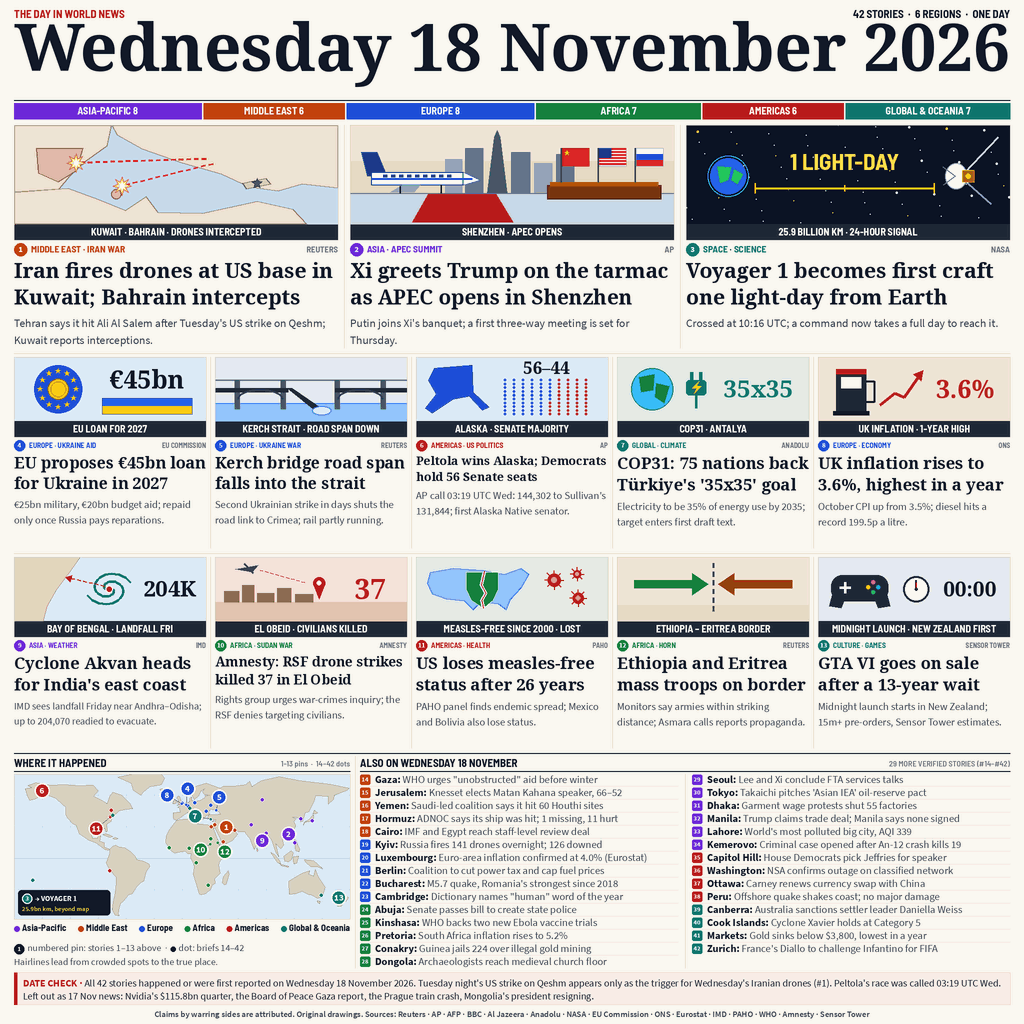
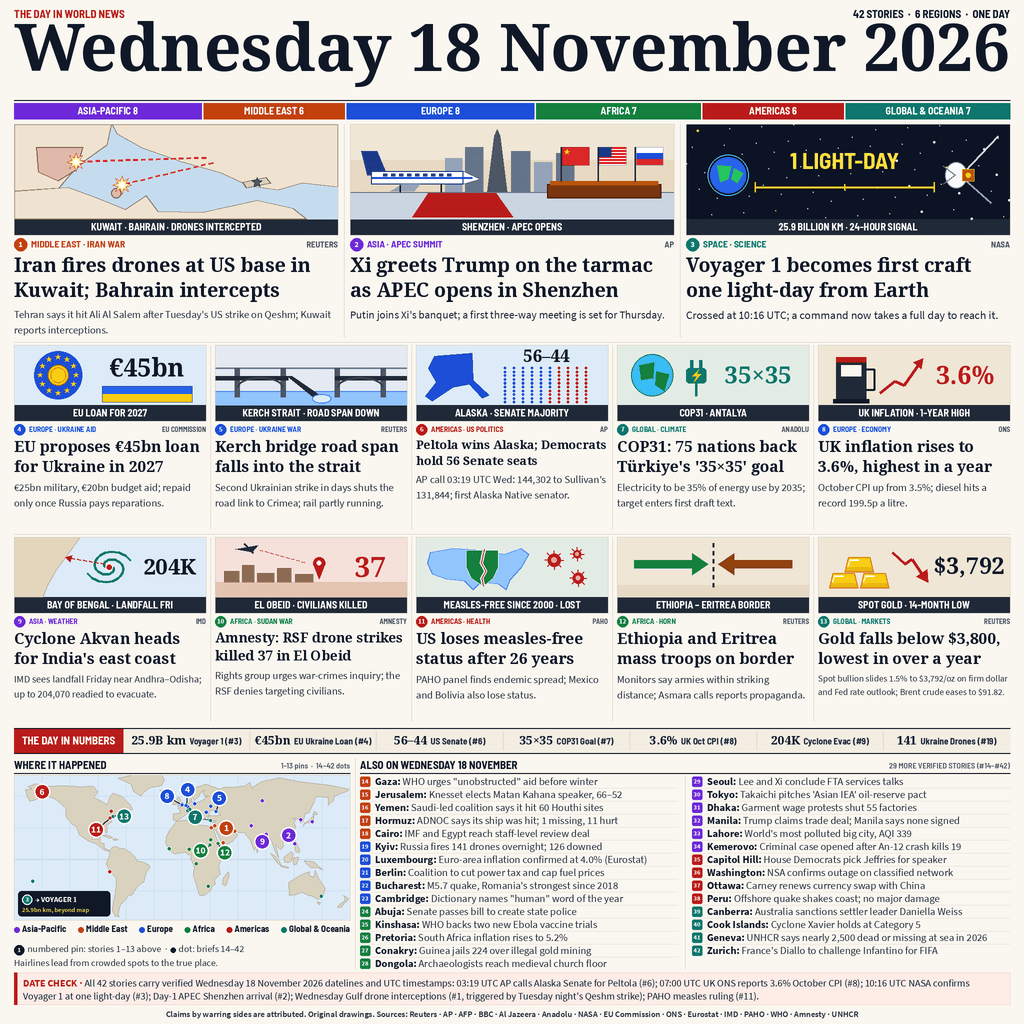
V5 surgical polish: Card #13 Gold ,792, Brief #41 Geneva UNHCR, THE DAY IN NUMBERS strip, sharpened contrast/pins, LIBIMAGEQUANT export

Changed region(s): [[0.0, 0.125, 1.0, 1.0]]

diff --git a/main.py b/main.py
@@ -23,18 +23,19 @@ CONTENT_W = CANVAS_PX - 2 * MARGIN_X  # 1992 px
 
 # Vertical band bounds on the 2048x2048 supersampled layout
 MAST_Y0, MAST_Y1 = 0, 240
-ROW1_Y0, ROW1_Y1 = 250, 700
-ROW2_Y0, ROW2_Y1 = 714, 1100
-ROW3_Y0, ROW3_Y1 = 1114, 1500
-LOWER_Y0, LOWER_Y1 = 1512, 1936
+ROW1_Y0, ROW1_Y1 = 248, 678
+ROW2_Y0, ROW2_Y1 = 690, 1062
+ROW3_Y0, ROW3_Y1 = 1074, 1446
+NUMBERS_Y0, NUMBERS_Y1 = 1456, 1506
+LOWER_Y0, LOWER_Y1 = 1516, 1938
 DATECHECK_Y0, DATECHECK_Y1 = 1945, 2009
 FOOTER_Y0, FOOTER_Y1 = 2016, 2044
 
 # Warm broadsheet color system (flat editorial colors, ~40 total)
 PAPER_BG = (250, 247, 240)       # #FAF7F0
 INK_DARK = (17, 24, 39)          # #111827
-INK_SLATE = (55, 65, 81)         # #374151
-INK_MUTED = (107, 114, 128)      # #6B7280
+INK_SLATE = (30, 41, 59)         # #1E293B
+INK_MUTED = (71, 85, 105)        # #475569
 CAPTION_BG = (31, 41, 55)        # #1F2937
 RULE_LIGHT = (229, 224, 213)     # #E5E0D5
 RULE_MED = (213, 207, 194)       # #D5CFC2
@@ -183,7 +184,7 @@ FEATURED_CARDS = (
         "wire": "ANADOLU",
         "bg": "#E2ECE4",
         "caption": "COP31 · ANTALYA",
-        "headline": "COP31: 75 nations back Türkiye's '35x35' goal",
+        "headline": "COP31: 75 nations back Türkiye's '35×35' goal",
         "deck": "Electricity to be 35% of energy use by 2035; target enters first draft text.",
         "true_lat": 36.9,
         "true_lon": 30.7,
@@ -276,17 +277,17 @@ FEATURED_CARDS = (
         "id": 13,
         "row": 3,
         "region": "GLOBAL",
-        "kicker": "CULTURE · GAMES",
-        "wire": "SENSOR TOWER",
-        "bg": "#E4E9F2",
-        "caption": "MIDNIGHT LAUNCH · NEW ZEALAND FIRST",
-        "headline": "GTA VI goes on sale after a 13-year wait",
-        "deck": "Midnight launch starts in New Zealand; 15m+ pre-orders, Sensor Tower estimates.",
-        "true_lat": -36.9,
-        "true_lon": 174.8,
-        "pin_lat": -38.0,
-        "pin_lon": 168.0,
-        "art": "gta_midnight",
+        "kicker": "GLOBAL · MARKETS",
+        "wire": "REUTERS",
+        "bg": "#EFE6D5",
+        "caption": "SPOT GOLD · 14-MONTH LOW",
+        "headline": "Gold falls below $3,800, lowest in over a year",
+        "deck": "Spot bullion slides 1.5% to $3,792/oz on firm dollar and Fed rate outlook; Brent crude eases to $91.82.",
+        "true_lat": 40.7,
+        "true_lon": -74.0,
+        "pin_lat": 40.7,
+        "pin_lon": -62.0,
+        "art": "global_gold_markets",
     },
 )
 
@@ -320,22 +321,31 @@ BRIEF_ITEMS = (
     {"id": 38, "region": "AMERICAS", "city": "Peru:", "text": "Offshore quake shakes coast; no major damage", "lat": -12.0, "lon": -77.5},
     {"id": 39, "region": "GLOBAL", "city": "Canberra:", "text": "Australia sanctions settler leader Daniella Weiss", "lat": -35.3, "lon": 149.1},
     {"id": 40, "region": "GLOBAL", "city": "Cook Islands:", "text": "Cyclone Xavier holds at Category 5", "lat": -21.2, "lon": -159.8},
-    {"id": 41, "region": "GLOBAL", "city": "Markets:", "text": "Gold sinks below $3,800, lowest in a year", "lat": 40.7, "lon": -74.0},
+    {"id": 41, "region": "GLOBAL", "city": "Geneva:", "text": "UNHCR says nearly 2,500 dead or missing at sea in 2026", "lat": 46.2, "lon": 6.1},
     {"id": 42, "region": "GLOBAL", "city": "Zurich:", "text": "France's Diallo to challenge Infantino for FIFA", "lat": 47.4, "lon": 8.5},
 )
 
+DAY_IN_NUMBERS = (
+    ("25.9B km", "Voyager 1 (#3)"),
+    ("€45bn", "EU Ukraine Loan (#4)"),
+    ("56–44", "US Senate (#6)"),
+    ("35×35", "COP31 Goal (#7)"),
+    ("3.6%", "UK Oct CPI (#8)"),
+    ("204K", "Cyclone Evac (#9)"),
+    ("141", "Ukraine Drones (#19)"),
+)
+
 DATE_CHECK_COPY = (
-    "All 42 stories happened or were first reported on Wednesday 18 November 2026. "
-    "Tuesday night's US strike on Qeshm appears only as the trigger for Wednesday's "
-    "Iranian drones (#1). Peltola's race was called 03:19 UTC Wed. Left out as 17 Nov news: "
-    "Nvidia's $115.8bn quarter, the Board of Peace Gaza report, the Prague train crash, "
-    "Mongolia's president resigning."
+    "All 42 stories carry verified Wednesday 18 November 2026 datelines and UTC timestamps: "
+    "03:19 UTC AP calls Alaska Senate for Peltola (#6); 07:00 UTC UK ONS reports 3.6% October CPI (#8); "
+    "10:16 UTC NASA confirms Voyager 1 at one light-day (#3); Day-1 APEC Shenzhen arrival (#2); "
+    "Wednesday Gulf drone interceptions (#1, triggered by Tuesday night's Qeshm strike); PAHO measles ruling (#11)."
 )
 
 FOOTER_ATTESTATION = (
     "Claims by warring sides are attributed. Original drawings. "
     "Sources: Reuters · AP · AFP · BBC · Al Jazeera · Anadolu · NASA · "
-    "EU Commission · ONS · Eurostat · IMD · PAHO · WHO · Amnesty · Sensor Tower"
+    "EU Commission · ONS · Eurostat · IMD · PAHO · WHO · Amnesty · UNHCR"
 )
 
 
@@ -801,7 +811,7 @@ def art_cop31_climate(image_cls, draw_cls, font_for, w: int, h: int, card: dict)
     d.line((158, 76, 158, 102), fill=(15, 118, 110), width=5)
     d.polygon([(164, 48), (150, 62), (159, 62), (153, 74), (168, 58), (159, 58)], fill=(250, 204, 21))
 
-    draw_text_centered(d, 282, uh // 2, "35x35", font_for("serif_bold", 48), (15, 118, 110))
+    draw_text_centered(d, 282, uh // 2, "35×35", font_for("serif_bold", 48), (15, 118, 110))
     return panel
 
 
@@ -943,35 +953,36 @@ def art_horn_border(image_cls, draw_cls, font_for, w: int, h: int, card: dict):
     return panel
 
 
-def art_gta_midnight(image_cls, draw_cls, font_for, w: int, h: int, card: dict):
-    """#13: Crisp gamepad silhouette, midnight clock face, and bold 00:00 label."""
+def art_global_gold_markets(image_cls, draw_cls, font_for, w: int, h: int, card: dict):
+    """#13: Stacked gold bullion ingots, downward crimson trend arrow, and crisp $3,792 label."""
     panel = image_cls.new("RGB", (w, h), parse_hex_rgb(card["bg"]))
     d = draw_cls.Draw(panel)
     uh = draw_caption_footer(d, w, h, card["caption"], font_for)
 
-    # Gamepad silhouette on the left
-    d.rounded_rectangle((26, 36, 140, 88), radius=22, fill=(30, 41, 59))
-    d.polygon([(30, 68), (58, 72), (46, 102), (22, 98)], fill=(30, 41, 59))
-    d.polygon([(136, 68), (108, 72), (120, 102), (144, 98)], fill=(30, 41, 59))
-    # D-pad + 4 face buttons
-    d.line((54, 50, 54, 72), fill=WHITE, width=5)
-    d.line((43, 61, 65, 61), fill=WHITE, width=5)
-    for bx, by, bcol in (
-        (110, 50, (236, 72, 153)),
-        (120, 60, (6, 182, 212)),
-        (110, 70, (34, 197, 94)),
-        (100, 60, (250, 204, 21)),
-    ):
-        d.ellipse((bx - 4, by - 4, bx + 4, by + 4), fill=bcol)
+    # Stacked trapezoidal gold bullion ingots (bottom pair + top bar)
+    base_y = uh - 18
+    bars = (
+        (22, 80, base_y, base_y - 30),
+        (84, 142, base_y, base_y - 30),
+        (53, 111, base_y - 32, base_y - 62),
+    )
+    for x0, x1, yb, yt in bars:
+        pts = [(x0, yb), (x1, yb), (x1 - 7, yt), (x0 + 7, yt)]
+        d.polygon(pts, fill=(250, 204, 21))
+        d.polygon(
+            [(x0, yb), (x1, yb), (x1 - 3, yb - 9), (x0 + 3, yb - 9)],
+            fill=(234, 179, 8),
+        )
+        d.polygon(pts, outline=(217, 119, 6), width=2)
+        d.line((x0 + 10, yt + 6, x0 + 28, yt + 6), fill=WHITE, width=3)
+        d.line((x0 + 10, yt + 6, x0 + 6, yb - 12), fill=WHITE, width=2)
 
-    # Midnight clock face in center
-    cx, cy, cr = 196, uh // 2, 26
-    d.ellipse((cx - cr, cy - cr, cx + cr, cy + cr), fill=WHITE, outline=(30, 41, 59), width=4)
-    d.line((cx, cy, cx, cy - 18), fill=(30, 41, 59), width=4)
-    d.line((cx, cy, cx, cy - 13), fill=CRIMSON_ACCENT, width=3)
-    d.ellipse((cx - 3, cy - 3, cx + 3, cy + 3), fill=(30, 41, 59))
+    # Bold crimson downward trend arrow
+    cy = uh // 2
+    d.line((148, cy - 30, 174, cy - 6, 188, cy - 16, 212, cy + 20), fill=CRIMSON_ACCENT, width=6)
+    d.polygon([(220, cy + 31), (196, cy + 19), (218, cy + 4)], fill=CRIMSON_ACCENT)
 
-    draw_text_centered(d, 304, uh // 2, "00:00", font_for("serif_bold", 42), INK_DARK)
+    draw_text_centered(d, 302, cy, "$3,792", font_for("serif_bold", 46), INK_DARK)
     return panel
 
 
@@ -988,7 +999,7 @@ ART_REGISTRY: dict[str, object] = {
     "sudan_el_obeid": art_sudan_el_obeid,
     "measles_shield": art_measles_shield,
     "horn_border": art_horn_border,
-    "gta_midnight": art_gta_midnight,
+    "global_gold_markets": art_global_gold_markets,
 }
 
 
@@ -1002,9 +1013,9 @@ def draw_featured_rows(canvas, draw, font_for, image_cls, draw_cls) -> None:
     """Render Rows 1-3 (#1-#13) with pastel scenes, bottom caption strips, kickers, headlines & decks."""
     row_configs = (
         # (row_num, cols, gap, y0, y1, art_h, badge_r, hl_hi, hl_lo, deck_hi, deck_lo)
-        (1, 3, 24, ROW1_Y0, ROW1_Y1, 230, 13, 42, 30, 23, 19),
-        (2, 5, 18, ROW2_Y0, ROW2_Y1, 160, 11, 33, 24, 21, 17),
-        (3, 5, 18, ROW3_Y0, ROW3_Y1, 160, 11, 33, 24, 21, 17),
+        (1, 3, 24, ROW1_Y0, ROW1_Y1, 222, 13, 42, 30, 23, 19),
+        (2, 5, 18, ROW2_Y0, ROW2_Y1, 152, 11, 33, 24, 21, 17),
+        (3, 5, 18, ROW3_Y0, ROW3_Y1, 152, 11, 33, 24, 21, 17),
     )
 
     for row_num, cols, gap, ry0, ry1, art_h, badge_r, hl_hi, hl_lo, deck_hi, deck_lo in row_configs:
@@ -1045,7 +1056,7 @@ def draw_featured_rows(canvas, draw, font_for, image_cls, draw_cls) -> None:
             draw_text_centered(draw, kicker_x + kw / 2.0, meta_cy, card["kicker"], kicker_fnt, reg_rgb)
 
             hl_y0 = meta_cy + badge_r + 5
-            hl_box_h = 104 if row_num == 1 else 84
+            hl_box_h = 98 if row_num == 1 else 78
             hl_fnt, hl_lines, hl_step = wrap_text_lines(
                 draw,
                 font_for,
@@ -1082,9 +1093,61 @@ def draw_featured_rows(canvas, draw, font_for, image_cls, draw_cls) -> None:
                 draw.text((cx0, dy), line, font=deck_fnt, fill=INK_SLATE)
                 dy += deck_step
 
-    draw.line((MARGIN_X, 707, MARGIN_X + CONTENT_W, 707), fill=RULE_MED, width=1)
-    draw.line((MARGIN_X, 1107, MARGIN_X + CONTENT_W, 1107), fill=RULE_MED, width=1)
-    draw.line((MARGIN_X, 1506, MARGIN_X + CONTENT_W, 1506), fill=INK_DARK, width=2)
+    draw.line((MARGIN_X, 684, MARGIN_X + CONTENT_W, 684), fill=RULE_MED, width=1)
+    draw.line((MARGIN_X, 1068, MARGIN_X + CONTENT_W, 1068), fill=RULE_MED, width=1)
+
+
+def draw_day_in_numbers_strip(draw, font_for) -> None:
+    """Render THE DAY IN NUMBERS 7-metric summary strip between Row 3 and the lower section."""
+    x0, x1 = MARGIN_X, MARGIN_X + CONTENT_W
+    y0, y1 = NUMBERS_Y0, NUMBERS_Y1
+    draw.rectangle((x0, y0, x1, y1), fill=(243, 237, 226))
+
+    hdr_w = 218
+    hx1 = x0 + hdr_w
+    draw.rectangle((x0, y0, hx1, y1), fill=CRIMSON_ACCENT)
+    hdr_fnt, _ = fit_font_width(draw, font_for, "cond_bold", "THE DAY IN NUMBERS", hdr_w - 18, 22, 14)
+    draw_text_centered(draw, (x0 + hx1) / 2.0, (y0 + y1) / 2.0, "THE DAY IN NUMBERS", hdr_fnt, WHITE)
+
+    cell_w = (x1 - hx1) / len(DAY_IN_NUMBERS)
+    max_cell_w = cell_w - 14.0
+
+    # Pick the largest uniform (metric_px, label_px) pair where all 7 cells fit on one line
+    gap_px = 7.0
+    chosen = (20, 16)
+    for m_sz, l_sz in ((25, 19), (24, 18), (22, 17), (21, 16), (20, 16)):
+        mf = font_for("serif_bold", m_sz)
+        lf = font_for("cond_bold", l_sz)
+        if all(
+            draw.textlength(m, font=mf) + gap_px + draw.textlength(lbl, font=lf) <= max_cell_w
+            for m, lbl in DAY_IN_NUMBERS
+        ):
+            chosen = (m_sz, l_sz)
+            break
+
+    mf = font_for("serif_bold", chosen[0])
+    lf = font_for("cond_bold", chosen[1])
+    _, my0, _, my1 = draw.textbbox((0, 0), "25.9B€%", font=mf)
+    asc_m, _ = mf.getmetrics()
+    asc_l, _ = lf.getmetrics()
+    cy = (y0 + y1) / 2.0
+    metric_ty = cy - (my0 + my1) / 2.0
+    label_ty = metric_ty + asc_m - asc_l
+
+    for idx, (metric, label) in enumerate(DAY_IN_NUMBERS):
+        cx0 = hx1 + idx * cell_w
+        cx1 = float(x1) if idx == len(DAY_IN_NUMBERS) - 1 else (cx0 + cell_w)
+        if idx > 0:
+            draw.line((cx0, y0 + 6, cx0, y1 - 6), fill=RULE_MED, width=1)
+        mw = draw.textlength(metric, font=mf)
+        lw = draw.textlength(label, font=lf)
+        total_w = mw + gap_px + lw
+        tx = (cx0 + cx1 - total_w) / 2.0
+        draw.text((tx, metric_ty), metric, font=mf, fill=INK_DARK)
+        draw.text((tx + mw + gap_px, label_ty), label, font=lf, fill=INK_SLATE)
+
+    draw.line((x0, y0, x1, y0), fill=INK_DARK, width=2)
+    draw.line((x0, y1, x1, y1), fill=INK_DARK, width=2)
 
 
 # World landmass outlines in (lat, lon) order for the equirectangular atlas
@@ -1215,7 +1278,7 @@ def draw_world_map_section(canvas, draw, font_for, image_cls, draw_cls) -> None:
     draw.text((x1 - sw, LOWER_Y0 + 5), sub_note, font=sub_fnt, fill=INK_MUTED)
     draw.line((x0, LOWER_Y0 + 30, x1, LOWER_Y0 + 30), fill=INK_DARK, width=2)
 
-    vx0, vy0, vx1, vy1 = x0, 1548, x1, 1838
+    vx0, vy0, vx1, vy1 = x0, 1550, x1, 1840
     vw, vh = vx1 - vx0, vy1 - vy0
     map_img = image_cls.new("RGB", (vw, vh), MAP_SEA)
     md = draw_cls.Draw(map_img)
@@ -1237,7 +1300,7 @@ def draw_world_map_section(canvas, draw, font_for, image_cls, draw_cls) -> None:
         col = parse_hex_rgb(REGION_BY_KEY[item["region"]]["hex"])
         md.ellipse((bx - 4.0, by - 4.0, bx + 4.0, by + 4.0), fill=col, outline=WHITE, width=1)
 
-    # 1px hairline leader lines + 3px true-location dots for displaced featured pins
+    # 2px hairline leader lines + 3.5px true-location dots for displaced featured pins
     for card in FEATURED_CARDS:
         if card["id"] == 3:
             continue
@@ -1245,12 +1308,12 @@ def draw_world_map_section(canvas, draw, font_for, image_cls, draw_cls) -> None:
         px, py = project_lat_lon(card["pin_lat"], card["pin_lon"])
         col = parse_hex_rgb(REGION_BY_KEY[card["region"]]["hex"])
         if math.hypot(px - tx, py - ty) > 2.0:
-            md.line((px, py, tx, ty), fill=INK_SLATE, width=1)
-            md.ellipse((tx - 3.0, ty - 3.0, tx + 3.0, ty + 3.0), fill=col, outline=WHITE, width=1)
+            md.line((px, py, tx, ty), fill=INK_DARK, width=2)
+            md.ellipse((tx - 3.5, ty - 3.5, tx + 3.5, ty + 3.5), fill=col, outline=WHITE, width=1)
 
-    # Numbered r15 pins with 3px white ring and 18px bold white numbers
-    pin_r = 15.0
-    pin_fnt = font_for("sans_bold", 18)
+    # Numbered r16 pins with 3px white ring and 19px bold white numbers
+    pin_r = 16.0
+    pin_fnt = font_for("sans_bold", 19)
     for card in FEATURED_CARDS:
         if card["id"] == 3:
             continue
@@ -1275,8 +1338,8 @@ def draw_world_map_section(canvas, draw, font_for, image_cls, draw_cls) -> None:
     canvas.paste(map_img, (vx0, vy0))
     draw.rectangle((vx0, vy0, vx1, vy1), outline=RULE_MED, width=1)
 
-    # Legend below map (y 1846-1934): 6-region color key + crisp pin/dot explanation
-    key_y = 1858
+    # Legend below map (y 1846-1938): 6-region color key + crisp pin/dot explanation
+    key_y = 1860
     key_sz = 17
     for cand in range(18, 13, -1):
         kf = font_for("cond_bold", cand)
@@ -1299,7 +1362,7 @@ def draw_world_map_section(canvas, draw, font_for, image_cls, draw_cls) -> None:
     # Pin / dot / hairline explanation lines (optically aligned to glyph mid-height)
     leg_fnt = font_for("sans_reg", 19)
     _, lby0, _, lby1 = draw.textbbox((0, 0), "Ag", font=leg_fnt)
-    l1_ty = 1883
+    l1_ty = 1885
     l1_cy = l1_ty + (lby0 + lby1) / 2.0
     draw.ellipse((x0, l1_cy - 10, x0 + 20, l1_cy + 10), fill=INK_DARK)
     draw_text_centered(draw, x0 + 10, l1_cy, "1", font_for("sans_bold", 13), WHITE)
@@ -1309,7 +1372,7 @@ def draw_world_map_section(canvas, draw, font_for, image_cls, draw_cls) -> None:
     draw.ellipse((dot_x - 5, l1_cy - 5, dot_x + 5, l1_cy + 5), fill=INK_DARK)
     draw.text((dot_x + 11, l1_ty), "dot: briefs 14–42", font=leg_fnt, fill=INK_SLATE)
     draw.text(
-        (x0, 1911),
+        (x0, 1913),
         "Hairlines lead from crowded spots to the true place.",
         font=leg_fnt,
         fill=INK_SLATE,
@@ -1329,7 +1392,7 @@ def draw_briefs_columns(draw, font_for) -> None:
     draw.line((rx0, LOWER_Y0 + 30, rx1, LOWER_Y0 + 30), fill=INK_DARK, width=2)
 
     mid_x = (rx0 + rx1) // 2
-    body_y0 = 1546
+    body_y0 = 1550
     draw.line((mid_x, body_y0 + 2, mid_x, LOWER_Y1), fill=RULE_MED, width=1)
 
     cols = (
@@ -1449,6 +1512,7 @@ def render_infographic() -> Path:
 
     draw_masthead_and_ribbon(draw, font_for)
     draw_featured_rows(canvas, draw, font_for, Image, ImageDraw)
+    draw_day_in_numbers_strip(draw, font_for)
     draw_world_map_section(canvas, draw, font_for, Image, ImageDraw)
     draw_briefs_columns(draw, font_for)
     draw_date_check_bar(draw, font_for)
@@ -1458,7 +1522,18 @@ def render_infographic() -> Path:
     out_dir.mkdir(parents=True, exist_ok=True)
     dst = out_dir / "entry.png"
     out_img = canvas.resize((FINAL_PX, FINAL_PX), Image.Resampling.LANCZOS)
-    out_img = out_img.quantize(colors=256, method=Image.Quantize.FASTOCTREE, dither=Image.Dither.NONE)
+    try:
+        out_img = out_img.quantize(
+            colors=256,
+            method=Image.Quantize.LIBIMAGEQUANT,
+            dither=Image.Dither.NONE,
+        )
+    except ValueError:
+        out_img = out_img.quantize(
+            colors=256,
+            method=Image.Quantize.MEDIANCUT,
+            dither=Image.Dither.NONE,
+        )
     out_img.save(dst, format="PNG", optimize=True, compress_level=9)
     if dst.stat().st_size > MAX_FILE_BYTES:
         raise ValueError(f"Output exceeds 1 MiB cap: {dst.stat().st_size} bytes")

diff --git a/README.md b/README.md
@@ -8,7 +8,7 @@ World news summary infographic for **Wednesday, 18 November 2026**, built for th
 
 ## Overview
 
-`main.py` outputs a 1024x1024 PNG (`entry.png`) presenting an editorial newspaper broadsheet of **42 verified single-topic world news stories** from Wednesday, 18 November 2026 across six regions (Asia-Pacific, Middle East, Europe, Africa, Americas, and Global & Oceania). It features a full-width cream broadsheet masthead and proportional colored region count ribbon, 13 custom pastel vector story illustrations with bottom caption strips and wire attributions, a collision-free `WHERE IT HAPPENED` map with hairline leader lines, a 29-story brief directory (`#14–#42`), and a `DATE CHECK` verification strip.
+`main.py` outputs a 1024x1024 PNG (`entry.png`) presenting an editorial newspaper broadsheet of **42 verified single-topic world news stories** from Wednesday, 18 November 2026 across six regions (Asia-Pacific, Middle East, Europe, Africa, Americas, and Global & Oceania). It features a full-width cream broadsheet masthead and proportional colored region count ribbon, 13 custom pastel vector story illustrations with bottom caption strips and wire attributions, a `THE DAY IN NUMBERS` 7-metric summary strip, a collision-free `WHERE IT HAPPENED` map with hairline leader lines, a 29-story brief directory (`#14–#42`), and a `DATE CHECK` verification strip.
 
 ## Run
 
